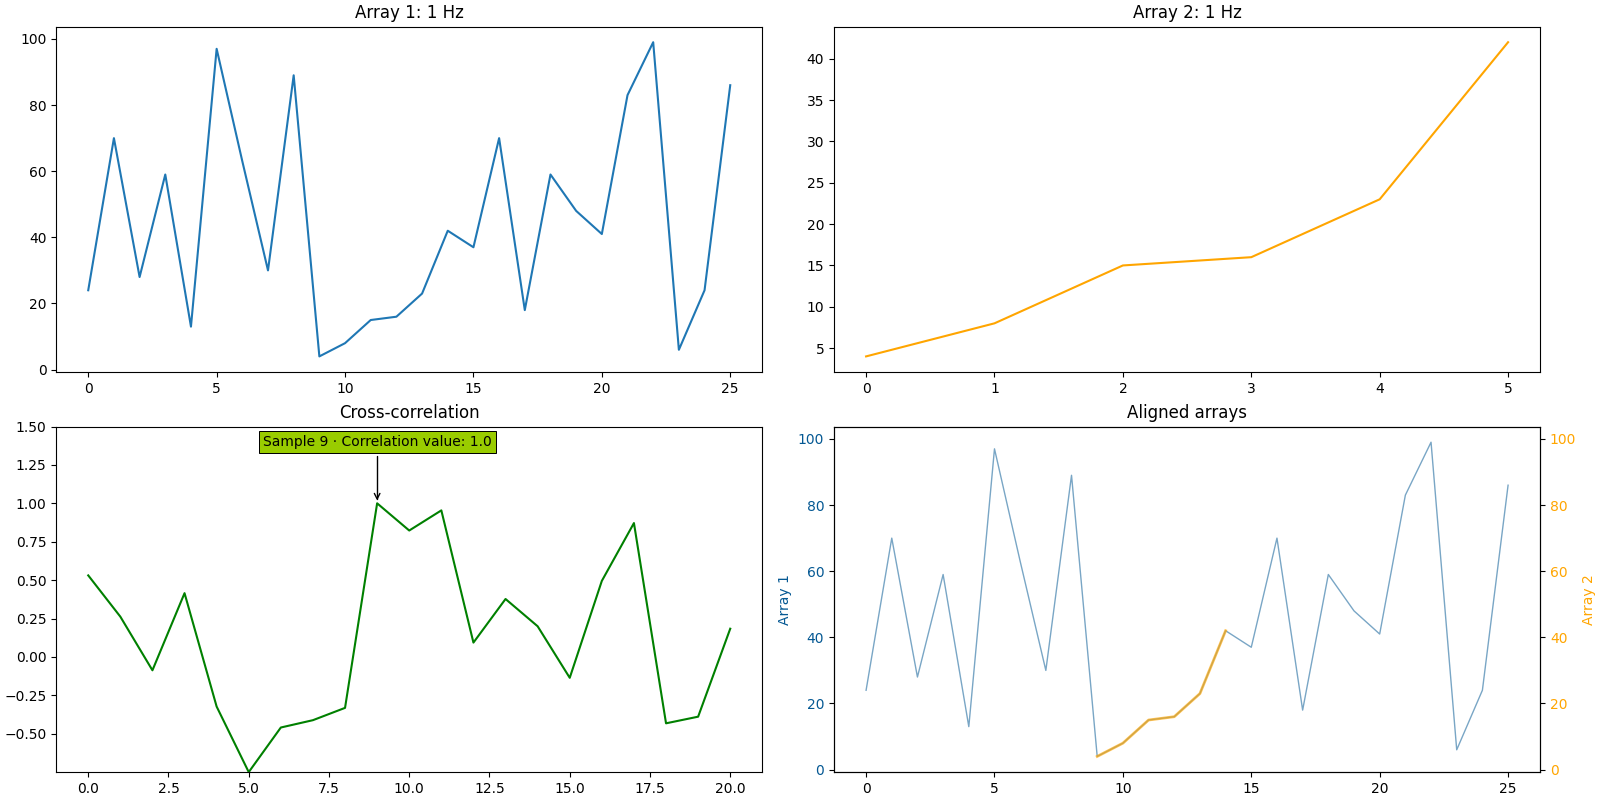
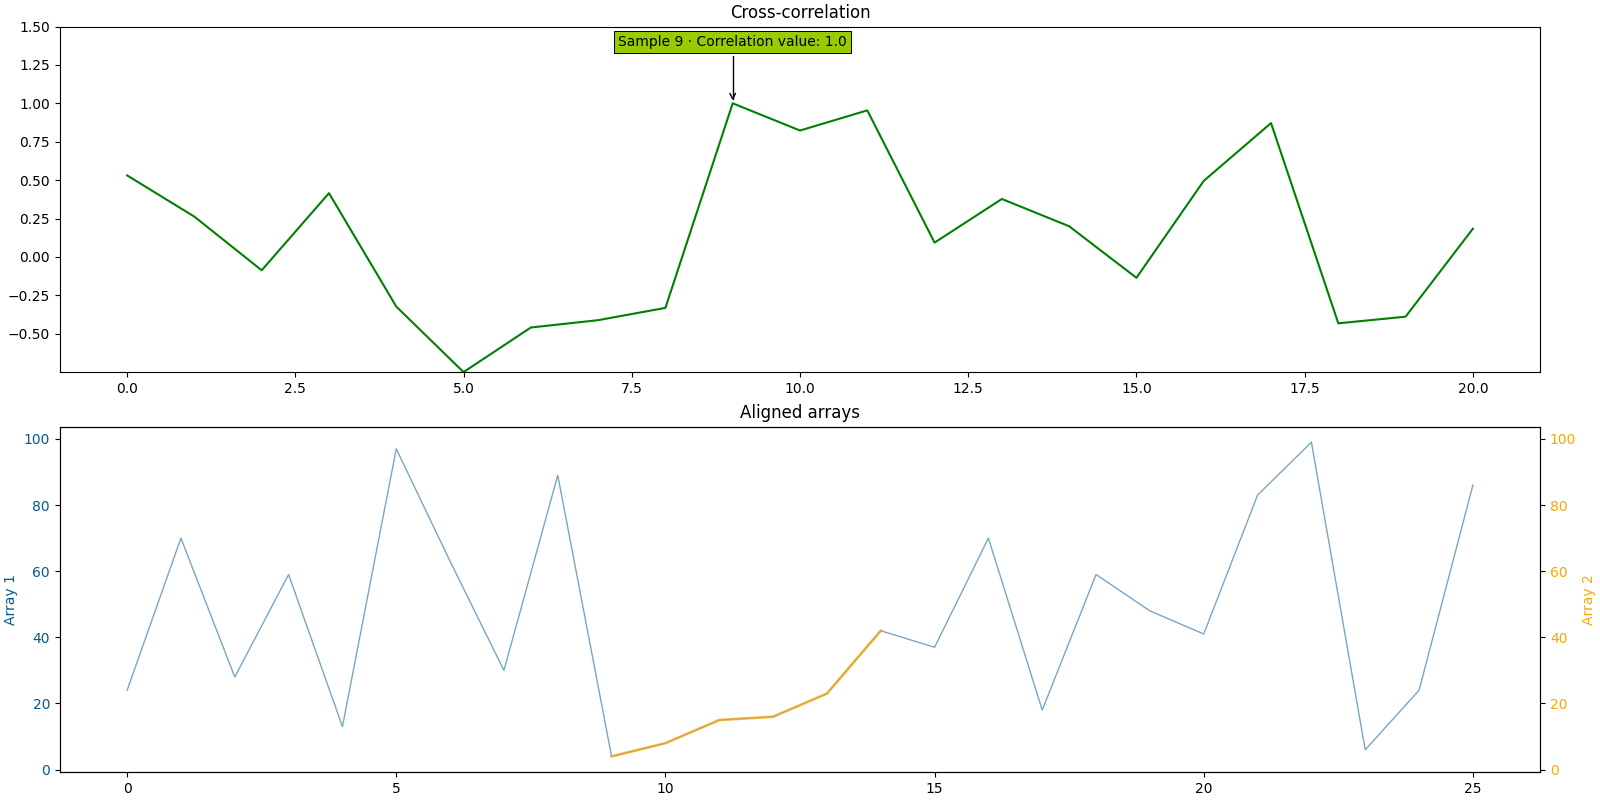
Find_delay 2.3
Corrected a bug that prevented the figures to be saved as a file
Plotting without intermediate steps now plots the graphs on top of each other, not side-by-side

diff --git a/find_delay.py b/find_delay.py
@@ -3,10 +3,12 @@
 * find_delays does the same, but for multiple excerpts from one big time series.
 
 Author: Romain Pastureau, BCBL (Basque Center on Cognition, Brain and Language)
-Current version: 2.2 (2024-05-02)
+Current version: 2.3 (2024-05-02)
 
 Version history
 ---------------
+2.3 (2024-05-02) · Corrected a bug that prevented the figures to be saved as a file
+                 · Plotting without intermediate steps now plots the graphs on top of each other, not side-by-side
 2.2 (2024-05-02) · Arrays with different amplitudes now appear scaled on the graph overlay
                  · Excerpts numbers now start at 1 instead of 0 on the graphs in find_delays
                  · "i_have_a_dream_excerpt2.wav" is now of lower amplitude to test the scaling on the graph overlay
@@ -647,7 +649,10 @@ def _create_figure(array_1, array_2, freq_array_1, freq_array_2, name_array_1, n
     """
 
     # Figure creation
-    fig, ax = plt.subplots(int(np.ceil(number_of_plots / 2)), 2, constrained_layout=True, figsize=(16, 8))
+    if plot_intermediate_steps:
+        fig, ax = plt.subplots(int(np.ceil(number_of_plots / 2)), 2, constrained_layout=True, figsize=(16, 8))
+    else:
+        fig, ax = plt.subplots(2, 1, constrained_layout=True, figsize=(16, 8))
 
     t_array_1 = np.arange(0, len(array_1)) / freq_array_1
     t_array_2 = np.arange(0, len(array_2)) / freq_array_2
@@ -733,71 +738,88 @@ def _create_figure(array_1, array_2, freq_array_1, freq_array_2, name_array_1, n
             ax[i // 2][i % 2].plot(t_res_2, y2, color="orange")
             i += 1
 
-        # Cross-correlation
-        title = "Cross-correlation"
+    # Cross-correlation
+    title = "Cross-correlation"
 
+    if plot_intermediate_steps:
         ax[i // 2][i % 2].set_title(title)
         ax[i // 2][i % 2].set_ylim(np.min(cross_correlation), 1.5)
         ax[i // 2][i % 2].plot(cross_correlation, color="green")
-        text = ""
-        if return_delay_format == "index":
-            text = "Sample "
-        text += str(return_value)
-        if return_delay_format in ["ms", "s"]:
-            text += return_delay_format
+    else:
+        ax[0].set_title(title)
+        ax[0].set_ylim(np.min(cross_correlation), 1.5)
+        ax[0].plot(cross_correlation, color="green")
+    text = ""
+    if return_delay_format == "index":
+        text = "Sample "
+    text += str(return_value)
+    if return_delay_format in ["ms", "s"]:
+        text += return_delay_format
 
-        if max_correlation_value >= threshold:
-            text += " · Correlation value: " + str(round(max_correlation_value, 3))
-            bbox_props = dict(boxstyle="square,pad=0.3", fc="#99cc00", ec="k", lw=0.72)
-        else:
-            text += " · Correlation value (below threshold): " + str(round(max_correlation_value, 3))
-            bbox_props = dict(boxstyle="square,pad=0.3", fc="#ff0000", ec="k", lw=0.72)
-        arrow_props = dict(arrowstyle="->", connectionstyle="angle,angleA=90")
-        kw = dict(xycoords='data', textcoords="data",
-                  arrowprops=arrow_props, bbox=bbox_props, ha="center", va="center")
+    if max_correlation_value >= threshold:
+        text += " · Correlation value: " + str(round(max_correlation_value, 3))
+        bbox_props = dict(boxstyle="square,pad=0.3", fc="#99cc00", ec="k", lw=0.72)
+    else:
+        text += " · Correlation value (below threshold): " + str(round(max_correlation_value, 3))
+        bbox_props = dict(boxstyle="square,pad=0.3", fc="#ff0000", ec="k", lw=0.72)
+    arrow_props = dict(arrowstyle="->", connectionstyle="angle,angleA=90")
+    kw = dict(xycoords='data', textcoords="data",
+              arrowprops=arrow_props, bbox=bbox_props, ha="center", va="center")
+    if plot_intermediate_steps:
         ax[i // 2][i % 2].annotate(text, xy=(index_max_correlation_value, max_correlation_value),
                                    xytext=(index_max_correlation_value, 1.4), **kw)
+    else:
+        ax[0].annotate(text, xy=(index_max_correlation_value, max_correlation_value),
+                       xytext=(index_max_correlation_value, 1.4), **kw)
 
-        i += 1
+    i += 1
 
-        # Aligned arrays
+    # Aligned arrays
+    if plot_intermediate_steps:
         ax[i // 2][i % 2].set_title("Aligned arrays")
         ax[i // 2][i % 2].plot(t_array_1, array_1, color="#04589388", linewidth=1)
         ax[i // 2][i % 2].tick_params(axis='y', labelcolor="#045893")
         ax[i // 2][i % 2].set_ylabel(name_array_1, color="#045893")
-        ax2 = ax[i // 2][i % 2].twinx()
-
-        if resampling_rate is None:
-            excerpt_in_original = array_1[index_max_correlation_value:
-                                          index_max_correlation_value + len(array_2)]
-        else:
-            index = int(index_max_correlation_value * freq_array_1 / resampling_rate)
-            excerpt_in_original = array_1[index:index + int(len(array_2) * freq_array_1 / freq_array_2)]
-        resampled_timestamps_array2 = t_res_2_aligned[:len(array_2)]
-
-        max_ratio = np.max(np.abs(array_2)) / np.max(np.abs(excerpt_in_original))
-        ax2.plot(resampled_timestamps_array2, array_2, color="#ffa500aa", linewidth=2)
         ylim = ax[i // 2][i % 2].get_ylim()
-        ax2.set_ylim((ylim[0] * max_ratio, ylim[1] * max_ratio))
-        ax2.tick_params(axis='y', labelcolor="#ffa500")
-        ax2.set_ylabel(name_array_2, color="#ffa500")
+        ax2 = ax[i // 2][i % 2].twinx()
+    else:
+        ax[1].set_title("Aligned arrays")
+        ax[1].plot(t_array_1, array_1, color="#04589388", linewidth=1)
+        ax[1].tick_params(axis='y', labelcolor="#045893")
+        ax[1].set_ylabel(name_array_1, color="#045893")
+        ylim = ax[1].get_ylim()
+        ax2 = ax[1].twinx()
 
-        if path_figure is not None:
-            if name_figure is not None:
-                if verbosity > 0:
-                    print("\nSaving the graph under " + str(path_figure) + "/" + str(name_figure) + "...", end=" ")
-                plt.savefig(str(path_figure) + "/" + str(name_figure))
-            else:
-                if verbosity > 0:
-                    print("\nSaving the graph under " + str(path_figure) + "...", end=" ")
-                plt.savefig(str(path_figure))
-            if verbosity > 0:
-                print("Done.")
+    if resampling_rate is None:
+        excerpt_in_original = array_1[index_max_correlation_value:
+                                      index_max_correlation_value + len(array_2)]
+    else:
+        index = int(index_max_correlation_value * freq_array_1 / resampling_rate)
+        excerpt_in_original = array_1[index:index + int(len(array_2) * freq_array_1 / freq_array_2)]
+    resampled_timestamps_array2 = t_res_2_aligned[:len(array_2)]
 
-        if plot_figure:
+    max_ratio = np.max(np.abs(array_2)) / np.max(np.abs(excerpt_in_original))
+    ax2.plot(resampled_timestamps_array2, array_2, color="#ffa500aa", linewidth=2)
+    ax2.set_ylim((ylim[0] * max_ratio, ylim[1] * max_ratio))
+    ax2.tick_params(axis='y', labelcolor="#ffa500")
+    ax2.set_ylabel(name_array_2, color="#ffa500")
+
+    if path_figure is not None:
+        if name_figure is not None:
             if verbosity > 0:
-                print("\nShowing the graph...")
-            plt.show()
+                print("\nSaving the graph under " + str(path_figure) + "/" + str(name_figure) + "...", end=" ")
+            plt.savefig(str(path_figure) + "/" + str(name_figure))
+        else:
+            if verbosity > 0:
+                print("\nSaving the graph under " + str(path_figure) + "...", end=" ")
+            plt.savefig(str(path_figure))
+        if verbosity > 0:
+            print("Done.")
+
+    if plot_figure:
+        if verbosity > 0:
+            print("\nShowing the graph...")
+        plt.show()
 
 
 def find_delay(array_1, array_2, freq_array_1=1, freq_array_2=1, compute_envelope=True, window_size_env=1e6,
@@ -1065,7 +1087,7 @@ def find_delay(array_1, array_2, freq_array_1=1, freq_array_2=1, compute_envelop
                         'value should be either "index", "ms", "s" or "timedelta".')
 
     # Plot and/or save the figure
-    if plot_figure or path_figure is not None:
+    if plot_figure is not None or path_figure is not None:
         _create_figure(array_1, array_2, freq_array_1, freq_array_2, "Array 1", "Array 2", envelope_1, envelope_2,
                        y1, y2, compute_envelope, window_size_env, overlap_ratio_env, filter_below, filter_over,
                        resampling_rate, window_size_res, overlap_ratio_res, cross_correlation, threshold,
@@ -1405,7 +1427,7 @@ def find_delays(array, excerpts, freq_array=1, freq_excerpts=1, compute_envelope
                             '. The value should be either "index", "ms", "s" or "timedelta".')
 
         # Plot and/or save the figure
-        if plot_figure or path_figure is not None:
+        if plot_figure is not None or path_figures is not None:
             _create_figure(array, excerpt, freq_array, freq_excerpt, "Array", "Excerpt " + str(i+1), envelope_array,
                            envelope_excerpt, y1, y2, compute_envelope, window_size_env, overlap_ratio_env,
                            filter_below, filter_over, resampling_rate, window_size_res, overlap_ratio_res,
@@ -1441,7 +1463,7 @@ if __name__ == "__main__":
     array_2 = [4, 8, 15, 16, 23, 42]
 
     find_delay(array_1, array_2, 1, 1, compute_envelope=False, resampling_rate=None, plot_figure=True,
-               path_figure="figure_1.png", plot_intermediate_steps=True)
+               path_figure="figure_1.png", plot_intermediate_steps=False)
 
     # Example 2: sine function, different frequencies
     timestamps_1 = np.linspace(0, np.pi * 2, 200001)

diff --git a/README.md b/README.md
@@ -75,6 +75,10 @@ find_delay(audio_array, excerpt_array, audio_frequency, excerpt_frequency,
 ![Delay between an audio file and an excerpt from it](https://github.com/RomainPastureau/find_delay/blob/main/figure_3.png?raw=true)
 
 ### Version history
+**2.3 (2024-05-02)**
+* Corrected a bug that prevented the figures to be saved as a file
+* Plotting without intermediate steps now plots the graphs on top of each other, not side-by-side
+
 **2.2 (2024-05-02)**
 * "i_have_a_dream_excerpt2.wav" is now of lower amplitude to test the scaling on the graph overlay
 * Arrays with different amplitudes now appear scaled on the graph overlay
